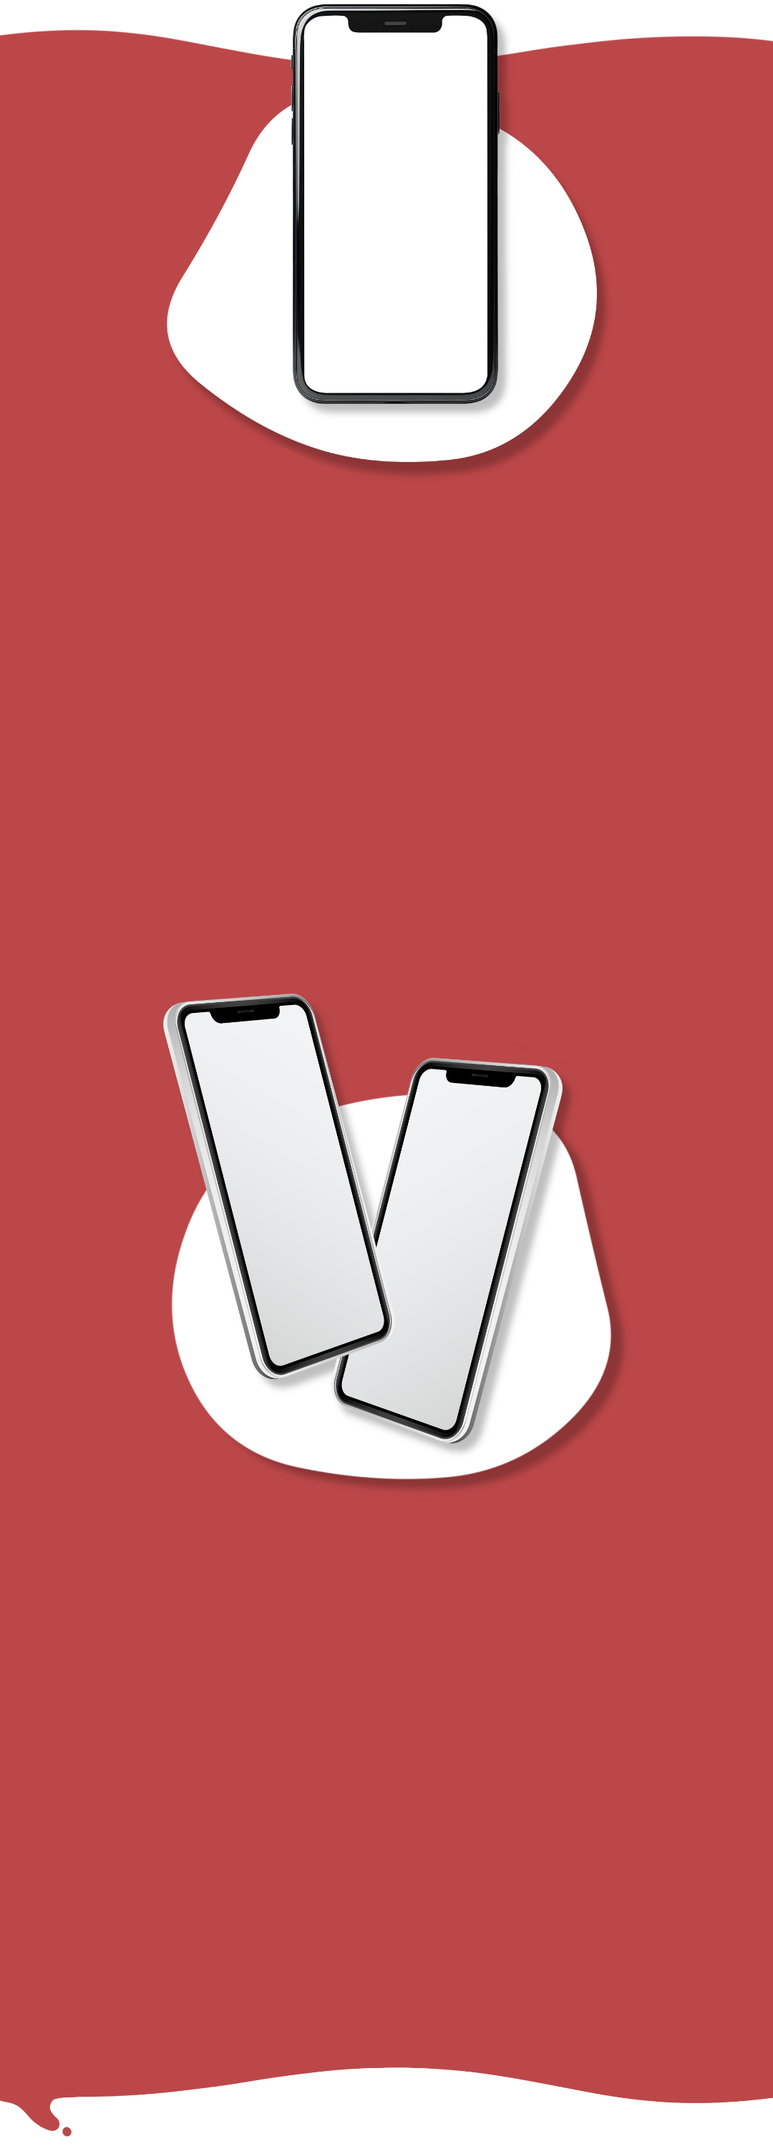
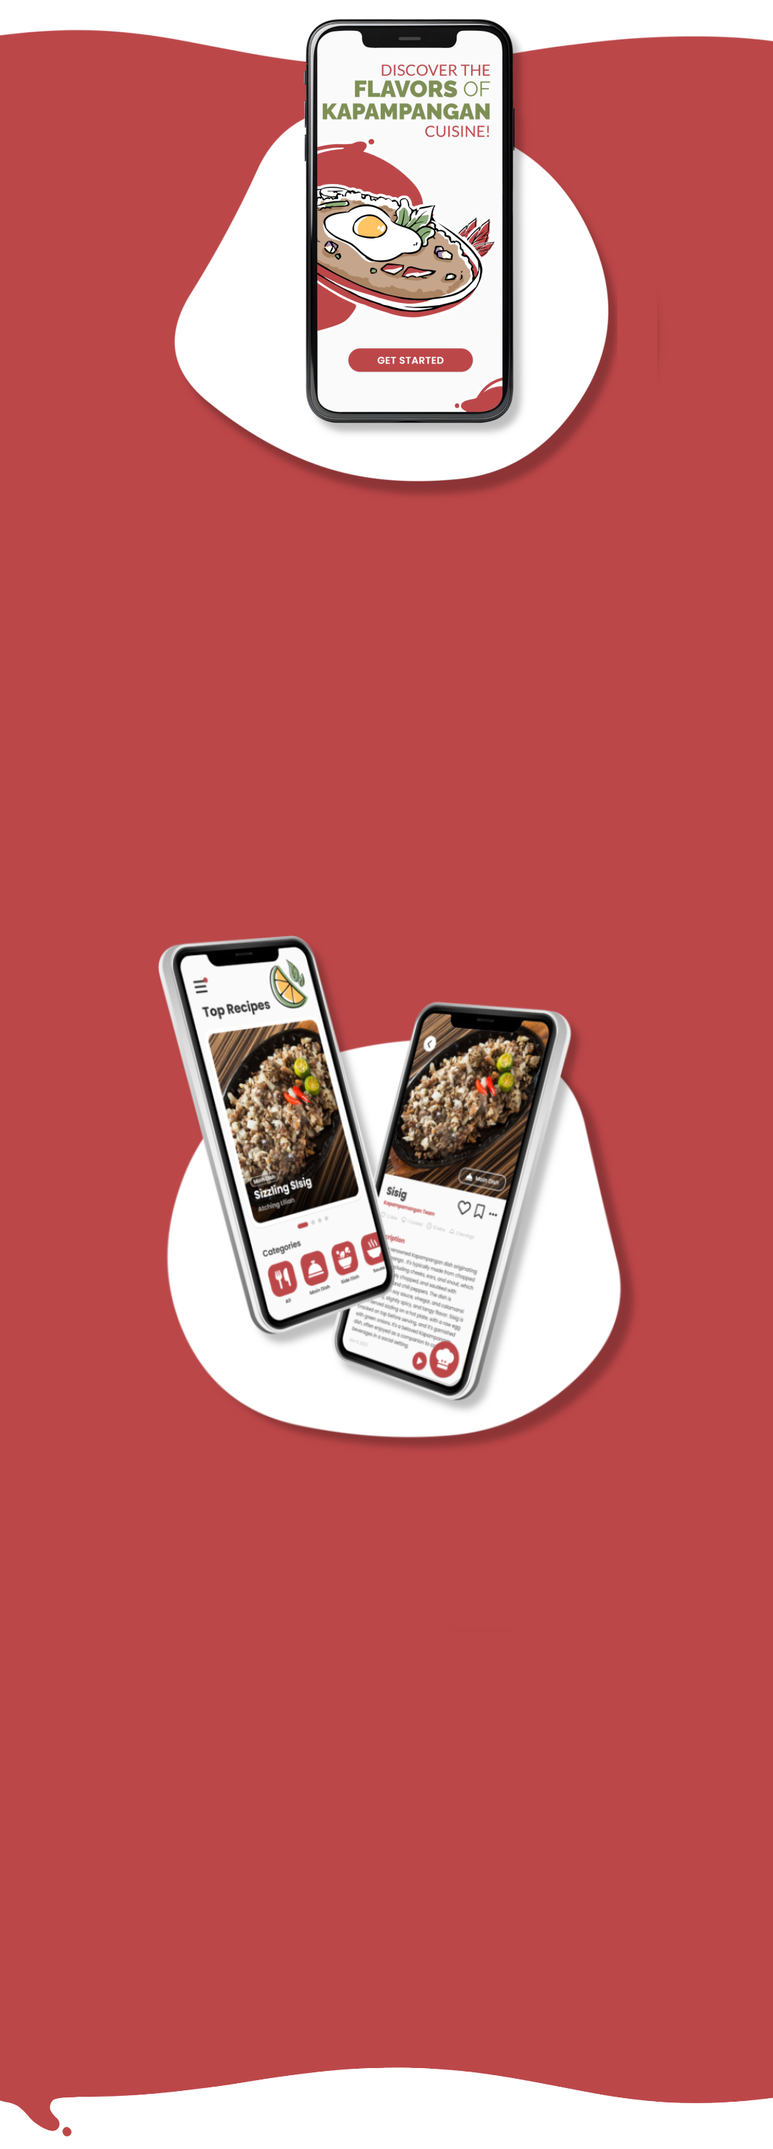
Container Updated.

Changed region(s): [[0.1833, 0.434, 0.825, 0.713], [0.275, 0.0, 0.7944, 0.248], [0.2139, 0.093, 0.3056, 0.186]]

diff --git a/lib/home_page/home_page_widget.dart b/lib/home_page/home_page_widget.dart
@@ -605,7 +605,7 @@ class _HomePageWidgetState extends State<HomePageWidget>
                           ),
                           child: Padding(
                             padding: const EdgeInsetsDirectional.fromSTEB(
-                                100.0, 300.0, 100.0, 300.0),
+                                140.0, 200.0, 140.0, 320.0),
                             child: Column(
                               mainAxisSize: MainAxisSize.max,
                               crossAxisAlignment: CrossAxisAlignment.start,
@@ -637,42 +637,42 @@ class _HomePageWidgetState extends State<HomePageWidget>
                                                           1280.0) &&
                                                       (MediaQuery.sizeOf(context).width <=
                                                           1439.0)) {
-                                                    return 25.0;
+                                                    return 30.0;
                                                   } else if ((MediaQuery.sizeOf(context).width >=
                                                           1440.0) &&
                                                       (MediaQuery.sizeOf(context).width <=
                                                           1511.0)) {
-                                                    return 28.0;
+                                                    return 35.0;
                                                   } else if ((MediaQuery.sizeOf(context).width >=
                                                           1512.0) &&
                                                       (MediaQuery.sizeOf(context).width <=
                                                           1535.0)) {
-                                                    return 30.0;
+                                                    return 35.0;
                                                   } else if ((MediaQuery.sizeOf(context).width >=
                                                           1536.0) &&
                                                       (MediaQuery.sizeOf(context).width <=
                                                           1727.0)) {
-                                                    return 32.0;
+                                                    return 38.0;
                                                   } else if ((MediaQuery.sizeOf(context).width >=
                                                           1728.0) &&
                                                       (MediaQuery.sizeOf(context).width <=
                                                           1919.0)) {
-                                                    return 37.0;
+                                                    return 40.0;
                                                   } else if ((MediaQuery.sizeOf(context).width >=
                                                           1920.0) &&
                                                       (MediaQuery.sizeOf(context).width <=
                                                           2239.0)) {
-                                                    return 40.0;
+                                                    return 45.0;
                                                   } else if ((MediaQuery.sizeOf(context).width >=
                                                           2240.0) &&
                                                       (MediaQuery.sizeOf(context)
                                                               .width <=
                                                           2559.0)) {
-                                                    return 45.0;
+                                                    return 50.0;
                                                   } else if (MediaQuery.sizeOf(context)
                                                           .width >=
                                                       2560.0) {
-                                                    return 55.0;
+                                                    return 50.0;
                                                   } else {
                                                     return 30.0;
                                                   }
@@ -700,42 +700,42 @@ class _HomePageWidgetState extends State<HomePageWidget>
                                                           1280.0) &&
                                                       (MediaQuery.sizeOf(context).width <=
                                                           1439.0)) {
-                                                    return 25.0;
+                                                    return 30.0;
                                                   } else if ((MediaQuery.sizeOf(context).width >=
                                                           1440.0) &&
                                                       (MediaQuery.sizeOf(context).width <=
                                                           1511.0)) {
-                                                    return 28.0;
+                                                    return 35.0;
                                                   } else if ((MediaQuery.sizeOf(context).width >=
                                                           1512.0) &&
                                                       (MediaQuery.sizeOf(context).width <=
                                                           1535.0)) {
-                                                    return 30.0;
+                                                    return 35.0;
                                                   } else if ((MediaQuery.sizeOf(context).width >=
                                                           1536.0) &&
                                                       (MediaQuery.sizeOf(context).width <=
                                                           1727.0)) {
-                                                    return 32.0;
+                                                    return 38.0;
                                                   } else if ((MediaQuery.sizeOf(context).width >=
                                                           1728.0) &&
                                                       (MediaQuery.sizeOf(context).width <=
                                                           1919.0)) {
-                                                    return 37.0;
+                                                    return 40.0;
                                                   } else if ((MediaQuery.sizeOf(context).width >=
                                                           1920.0) &&
                                                       (MediaQuery.sizeOf(context).width <=
                                                           2239.0)) {
-                                                    return 40.0;
+                                                    return 45.0;
                                                   } else if ((MediaQuery.sizeOf(context).width >=
                                                           2240.0) &&
                                                       (MediaQuery.sizeOf(context)
                                                               .width <=
                                                           2559.0)) {
-                                                    return 45.0;
+                                                    return 50.0;
                                                   } else if (MediaQuery.sizeOf(context)
                                                           .width >=
                                                       2560.0) {
-                                                    return 55.0;
+                                                    return 50.0;
                                                   } else {
                                                     return 30.0;
                                                   }
@@ -782,17 +782,17 @@ class _HomePageWidgetState extends State<HomePageWidget>
                                                             1536.0) &&
                                                         (MediaQuery.sizeOf(context).width <=
                                                             1727.0)) {
-                                                      return 22.0;
+                                                      return 20.0;
                                                     } else if ((MediaQuery.sizeOf(context).width >=
                                                             1728.0) &&
                                                         (MediaQuery.sizeOf(context).width <=
                                                             1919.0)) {
-                                                      return 27.0;
+                                                      return 23.0;
                                                     } else if ((MediaQuery.sizeOf(context).width >=
                                                             1920.0) &&
                                                         (MediaQuery.sizeOf(context).width <=
                                                             2239.0)) {
-                                                      return 30.0;
+                                                      return 27.0;
                                                     } else if ((MediaQuery.sizeOf(context).width >=
                                                             2240.0) &&
                                                         (MediaQuery.sizeOf(context)
@@ -802,9 +802,9 @@ class _HomePageWidgetState extends State<HomePageWidget>
                                                     } else if (MediaQuery.sizeOf(context)
                                                             .width >=
                                                         2560.0) {
-                                                      return 45.0;
+                                                      return 40.0;
                                                     } else {
-                                                      return 20.0;
+                                                      return 16.0;
                                                     }
                                                   }(),
                                                   fontWeight: FontWeight.normal,
@@ -843,42 +843,42 @@ class _HomePageWidgetState extends State<HomePageWidget>
                                                             1280.0) &&
                                                         (MediaQuery.sizeOf(context).width <=
                                                             1439.0)) {
-                                                      return 25.0;
+                                                      return 30.0;
                                                     } else if ((MediaQuery.sizeOf(context).width >=
                                                             1440.0) &&
                                                         (MediaQuery.sizeOf(context).width <=
                                                             1511.0)) {
-                                                      return 28.0;
+                                                      return 35.0;
                                                     } else if ((MediaQuery.sizeOf(context).width >=
                                                             1512.0) &&
                                                         (MediaQuery.sizeOf(context).width <=
                                                             1535.0)) {
-                                                      return 30.0;
+                                                      return 35.0;
                                                     } else if ((MediaQuery.sizeOf(context).width >=
                                                             1536.0) &&
                                                         (MediaQuery.sizeOf(context).width <=
                                                             1727.0)) {
-                                                      return 32.0;
+                                                      return 38.0;
                                                     } else if ((MediaQuery.sizeOf(context).width >=
                                                             1728.0) &&
                                                         (MediaQuery.sizeOf(context).width <=
                                                             1919.0)) {
-                                                      return 37.0;
+                                                      return 40.0;
                                                     } else if ((MediaQuery.sizeOf(context).width >=
                                                             1920.0) &&
                                                         (MediaQuery.sizeOf(context).width <=
                                                             2239.0)) {
-                                                      return 40.0;
+                                                      return 45.0;
                                                     } else if ((MediaQuery.sizeOf(context).width >=
                                                             2240.0) &&
                                                         (MediaQuery.sizeOf(context)
                                                                 .width <=
                                                             2559.0)) {
-                                                      return 45.0;
+                                                      return 50.0;
                                                     } else if (MediaQuery.sizeOf(context)
                                                             .width >=
                                                         2560.0) {
-                                                      return 55.0;
+                                                      return 50.0;
                                                     } else {
                                                       return 30.0;
                                                     }
@@ -926,17 +926,17 @@ class _HomePageWidgetState extends State<HomePageWidget>
                                                               1536.0) &&
                                                           (MediaQuery.sizeOf(context).width <=
                                                               1727.0)) {
-                                                        return 22.0;
+                                                        return 20.0;
                                                       } else if ((MediaQuery.sizeOf(context).width >=
                                                               1728.0) &&
                                                           (MediaQuery.sizeOf(context).width <=
                                                               1919.0)) {
-                                                        return 27.0;
+                                                        return 23.0;
                                                       } else if ((MediaQuery.sizeOf(context).width >=
                                                               1920.0) &&
                                                           (MediaQuery.sizeOf(context).width <=
                                                               2239.0)) {
-                                                        return 30.0;
+                                                        return 27.0;
                                                       } else if ((MediaQuery.sizeOf(context).width >=
                                                               2240.0) &&
                                                           (MediaQuery.sizeOf(context)
@@ -946,9 +946,9 @@ class _HomePageWidgetState extends State<HomePageWidget>
                                                       } else if (MediaQuery.sizeOf(context)
                                                               .width >=
                                                           2560.0) {
-                                                        return 45.0;
+                                                        return 40.0;
                                                       } else {
-                                                        return 20.0;
+                                                        return 16.0;
                                                       }
                                                     }(),
                                                     fontWeight:
@@ -965,7 +965,49 @@ class _HomePageWidgetState extends State<HomePageWidget>
                                     ),
                                   ),
                                 ),
-                              ].divide(const SizedBox(height: 400.0)),
+                              ].divide(SizedBox(height: () {
+                                if ((MediaQuery.sizeOf(context).width >=
+                                        1280.0) &&
+                                    (MediaQuery.sizeOf(context).width <=
+                                        1439.0)) {
+                                  return 200.0;
+                                } else if ((MediaQuery.sizeOf(context).width >=
+                                        1440.0) &&
+                                    (MediaQuery.sizeOf(context).width <=
+                                        1511.0)) {
+                                  return 250.0;
+                                } else if ((MediaQuery.sizeOf(context).width >=
+                                        1512.0) &&
+                                    (MediaQuery.sizeOf(context).width <=
+                                        1535.0)) {
+                                  return 300.0;
+                                } else if ((MediaQuery.sizeOf(context).width >=
+                                        1536.0) &&
+                                    (MediaQuery.sizeOf(context).width <=
+                                        1727.0)) {
+                                  return 300.0;
+                                } else if ((MediaQuery.sizeOf(context).width >=
+                                        1728.0) &&
+                                    (MediaQuery.sizeOf(context).width <=
+                                        1919.0)) {
+                                  return 330.0;
+                                } else if ((MediaQuery.sizeOf(context).width >=
+                                        1920.0) &&
+                                    (MediaQuery.sizeOf(context).width <=
+                                        2239.0)) {
+                                  return 425.0;
+                                } else if ((MediaQuery.sizeOf(context).width >=
+                                        2240.0) &&
+                                    (MediaQuery.sizeOf(context).width <=
+                                        2559.0)) {
+                                  return 470.0;
+                                } else if (MediaQuery.sizeOf(context).width >=
+                                    2560.0) {
+                                  return 500.0;
+                                } else {
+                                  return 300.0;
+                                }
+                              }())),
                             ),
                           ),
                         ),
@@ -1769,7 +1811,7 @@ class _HomePageWidgetState extends State<HomePageWidget>
                             ),
                             child: Padding(
                               padding: const EdgeInsetsDirectional.fromSTEB(
-                                  60.0, 350.0, 60.0, 120.0),
+                                  60.0, 320.0, 60.0, 160.0),
                               child: Column(
                                 mainAxisSize: MainAxisSize.max,
                                 children: [
@@ -2345,8 +2387,8 @@ class _HomePageWidgetState extends State<HomePageWidget>
                                                                       context)
                                                                   .width <=
                                                               1023.0)
-                                                      ? 20.0
-                                                      : 25.0,
+                                                      ? 18.0
+                                                      : 23.0,
                                                   fontWeight: FontWeight.bold,
                                                 ),
                                           )).animateOnActionTrigger(
@@ -2377,8 +2419,8 @@ class _HomePageWidgetState extends State<HomePageWidget>
                                                                       context)
                                                                   .width <=
                                                               1023.0)
-                                                      ? 20.0
-                                                      : 25.0,
+                                                      ? 18.0
+                                                      : 23.0,
                                                   fontWeight: FontWeight.bold,
                                                 ),
                                           )).animateOnActionTrigger(
@@ -2415,7 +2457,7 @@ class _HomePageWidgetState extends State<HomePageWidget>
                                                                         .width <=
                                                                     1023.0)
                                                             ? 14.0
-                                                            : 18.0,
+                                                            : 16.0,
                                                         fontWeight:
                                                             FontWeight.normal,
                                                       ),
@@ -2461,8 +2503,8 @@ class _HomePageWidgetState extends State<HomePageWidget>
                                                                         context)
                                                                     .width <=
                                                                 1023.0)
-                                                        ? 20.0
-                                                        : 25.0,
+                                                        ? 18.0
+                                                        : 23.0,
                                                     fontWeight: FontWeight.bold,
                                                   ),
                                             )),
@@ -2495,7 +2537,7 @@ class _HomePageWidgetState extends State<HomePageWidget>
                                                                           .width <=
                                                                       1023.0)
                                                               ? 14.0
-                                                              : 18.0,
+                                                              : 16.0,
                                                           fontWeight:
                                                               FontWeight.normal,
                                                         ),
